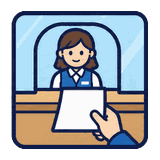
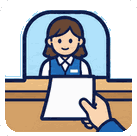
絵に描き込まれた外枠を外して、達成の判子が絵に重ならないようにする

diff --git a/public/game/quests.html b/public/game/quests.html
@@ -165,8 +165,12 @@
 
   /* 達成した依頼 */
   .job[data-done="true"] .jname, .job[data-done="true"] .jwhen { color: #9ca3af; }
-  .job[data-done="true"]::after {
-    content: "達成"; position: absolute; right: 6px; top: 18px;
+  /* 達成の判子。
+     絶対配置にすると、右にある手続きの絵に重なる。
+     .body（ふつうのブロック）の中で右に浮かせると、名前が判子を避けて流れ、
+     絵とも重ならない。パソコンでもスマホでも同じ作りにしてある */
+  .job[data-done="true"] .body::before {
+    content: "達成"; float: right; margin: 0 0 4px 12px;
     border: 3px double var(--shu); color: var(--shu); background: rgba(255,255,255,.7);
     font-family: var(--maru); font-size: 17px; letter-spacing: .2em;
     padding: 4px 10px 4px 14px; transform: rotate(-11deg);
@@ -195,18 +199,10 @@
     color: #fff; background: var(--shu); padding: 2px 8px; margin-bottom: 5px;
   }
   .job .jname { font-size: 19px; }
-    /* 判子。狭い画面では扱いが難しいので、回り込みにする。
-       ・絶対配置のままだと、長い名前の上に重なる
-       ・.job は flex なので、位置を static にすると判子が「列」になり、
-         行の高さいっぱいに伸びたうえ、名前の幅まで食う
-       そこで .body（ふつうのブロック）の中で右に浮かせる。
-       名前は判子を避けて流れ、判子の下からは元の幅に戻る */
-    .job[data-done="true"]::after { display: none; }
+    /* 狭い画面では、判子を少し小さくする */
     .job[data-done="true"] .body::before {
-      content: "達成"; float: right; margin: 2px 0 4px 10px;
-      border: 3px double var(--shu); color: var(--shu); background: rgba(255,255,255,.7);
-      font-family: var(--maru); font-size: 14px; letter-spacing: .18em;
-      padding: 2px 6px 2px 9px; transform: rotate(-11deg);
+      margin: 2px 0 4px 10px; font-size: 14px; letter-spacing: .18em;
+      padding: 2px 6px 2px 9px;
     }
     /* 指で押す場所は 44px 以上にする。
        横に2つ並べると片方に指がかかるので、1行に1つずつ縦に並べる */
